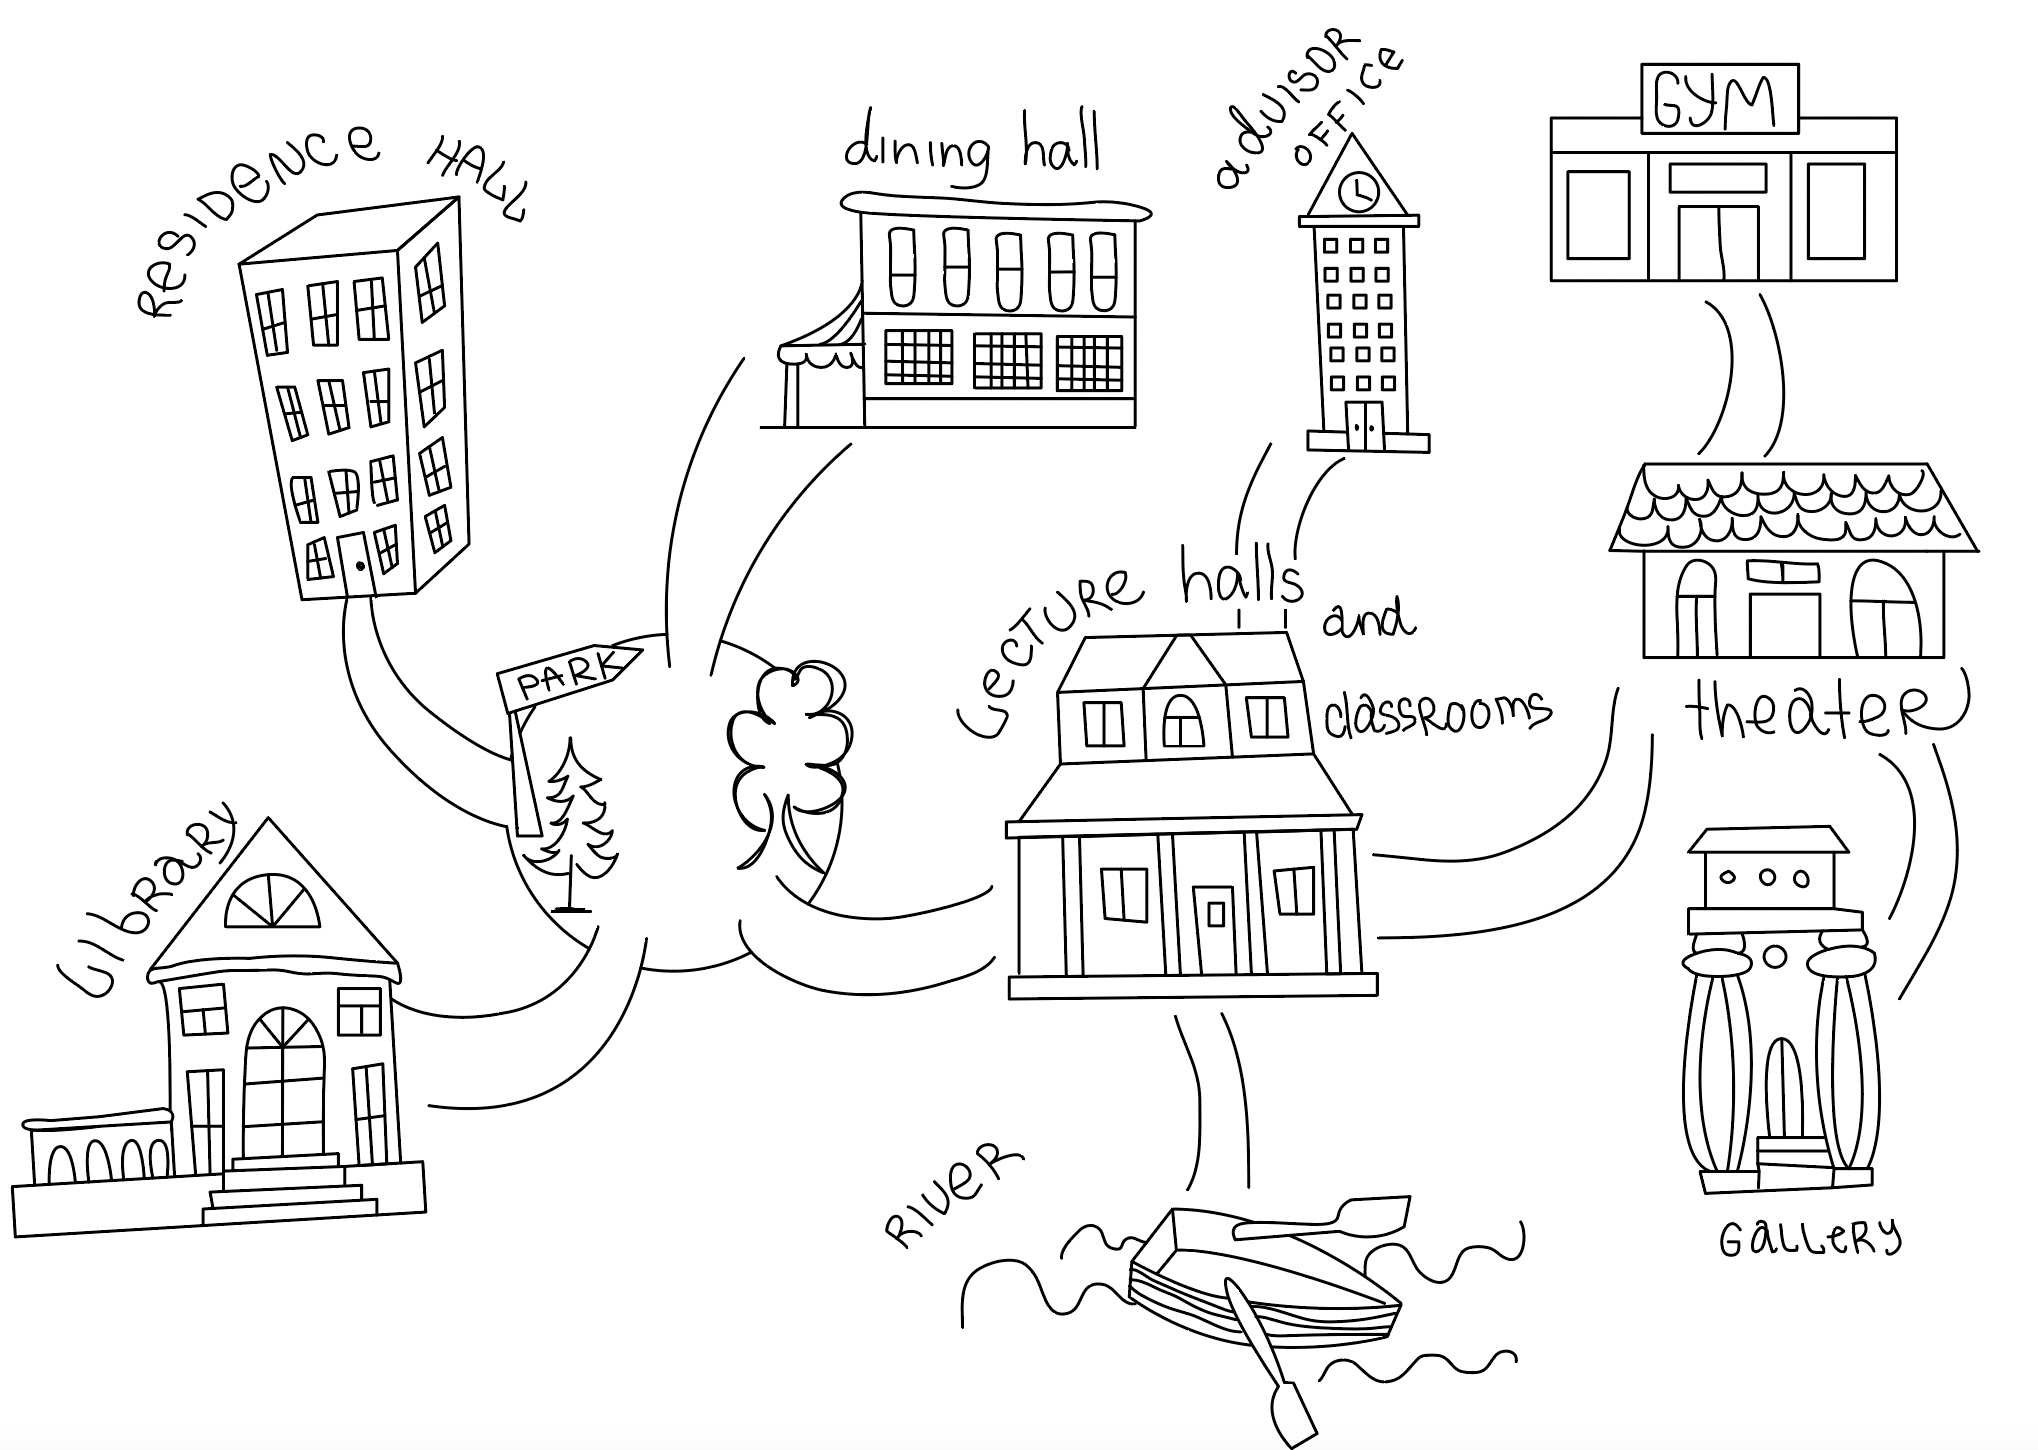
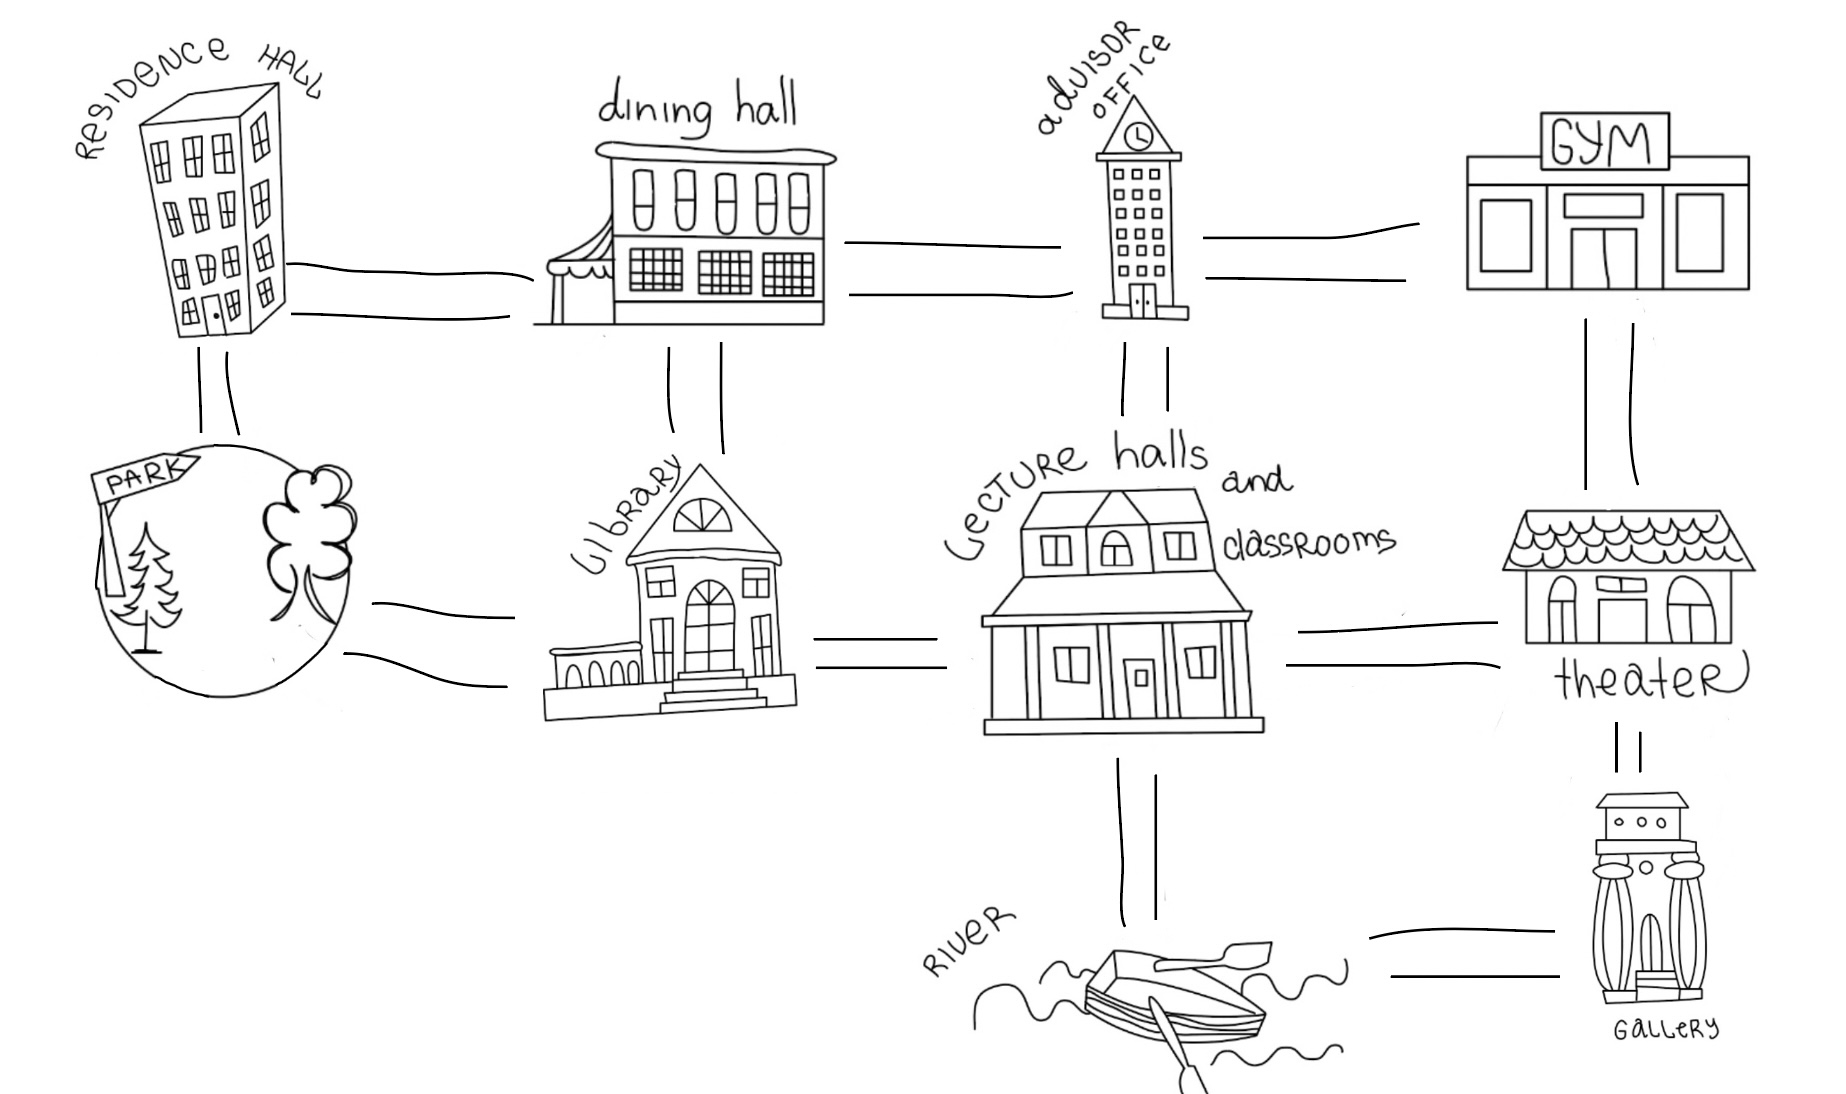
Determine where to go based on the user input

diff --git a/adventure.py b/adventure.py
@@ -20,6 +20,7 @@ def main():
     next = "Press ENTER to continue"
     details = "Press ENTER to learn more"
     command = "Enter a command: "
+    no_way = "Unfortunately, you are not allowed to go this way. Try another direction or ask for Help"
     
     residence2 = "Here you will find your bed, table, chair and your wardrobe. As well as a window with a view of the whole university"
     park2 = "Here you can see the most popular tree on the entire campus, where everyone has had a picnic at least once."
@@ -32,88 +33,257 @@ def main():
     gym2 = "There are two areas: a fitness room and a swimming pool. \nTry to make it your daily routine and you will be able to do your other things more productively."
     gallery2 = "Here you can see the progress of other players, \nand at the end of your journey post your own and share your experience"
     
-    number_of_stops = 0
-    print(title)
-    name = input(ask_for_name)
-    print(introduction)
+    residence_name = "Residence Hall"
+    park_name = "Park"
+    library_name = "Library"
+    dininghall_name = "Dining Hall"
+    classroom_name = "Lecture Halls and Classroom"
+    advisor_name = "Advisor Office"
+    river_name = "River"
+    theater_name = "Theater"
+    gym_name = "Gym"
+    gallery_name = "Gallery"
     
+    current_location = residence_name
+    number_of_stops = 0
+    
+    print(title)
+    print(introduction)
+    name = input(ask_for_name)
     print(ok + name + residence)
     input(details)
     print(residence2)
     input(next)
-    number_of_stops += 1
     
     while True:
         direction = input(command)
-        if direction.lower() == "north":
-            print("Your direction is North")
-        elif direction.lower() == "south":
-            print("Your direction is South")
-        elif direction.lower() == "east":
-            print("Your direction East")
-        elif direction.lower() == "west":
-            print("Your direction is West")
+        #residence_hall
+        if current_location == residence_name and direction.lower() == "north":
+            print(no_way)
+        elif current_location == residence_name and direction.lower() == "west":
+            print(no_way) 
+        elif current_location == residence_name and direction.lower() == "south":
+            current_location = park_name
+            number_of_stops += 1
+            print(park)
+            input(details)
+            print(park2)
+            input(next)
+        elif current_location == residence_name and direction.lower() == "east":
+            current_location = dininghall_name
+            number_of_stops += 1
+            print(dininghall)
+            input(details)
+            print(dininghall2)
+            input(next)
+        #park
+        elif current_location == park_name and direction.lower() == "north":
+            current_location = residence_name
+            number_of_stops += 1
+            print(ok + name + residence)
+            input(details)
+            print(residence2)
+            input(next)
+        elif current_location == park_name and direction.lower() == "west":
+            print(no_way) 
+        elif current_location == park_name and direction.lower() == "south":
+            print(no_way)
+        elif current_location == park_name and direction.lower() == "east":
+            current_location = library_name
+            number_of_stops += 1
+            print(library)
+            input(details)
+            print(library2)
+            input(next) 
+        #dining hall
+        elif current_location == dininghall_name and direction.lower() == "north":
+            print(no_way) 
+        elif current_location == dininghall_name and direction.lower() == "west":
+            current_location = residence_name
+            number_of_stops += 1
+            print(ok + name + residence)
+            input(details)
+            print(residence2)
+            input(next) 
+        elif current_location == dininghall_name and direction.lower() == "south":
+            current_location = library_name
+            number_of_stops += 1
+            print(library)
+            input(details)
+            print(library2)
+            input(next) 
+        elif current_location == dininghall_name and direction.lower() == "east":
+            current_location = advisor_name
+            number_of_stops += 1
+            print(advisor)
+            input(details)
+            print(advisor2)
+            input(next)
+        #library
+        elif current_location == library_name and direction.lower() == "north":
+            current_location = dininghall_name
+            number_of_stops += 1
+            print(dininghall)
+            input(details)
+            print(dininghall2)
+            input(next) 
+        elif current_location == library_name and direction.lower() == "west":
+            current_location = park_name
+            number_of_stops += 1
+            print(park)
+            input(details)
+            print(park2)
+            input(next)
+        elif current_location == library_name and direction.lower() == "south":
+            print(no_way)
+        elif current_location == library_name and direction.lower() == "east":
+            current_location = classroom_name
+            number_of_stops += 1
+            print(classroom)
+            input(details)
+            print(classroom2)
+            input(next)
+        #advisor office
+        elif current_location == advisor_name and direction.lower() == "north":
+            print(no_way)
+        elif current_location == advisor_name and direction.lower() == "west":
+            current_location = dininghall_name
+            number_of_stops += 1
+            print(dininghall)
+            input(details)
+            print(dininghall2)
+            input(next)
+        elif current_location == advisor_name and direction.lower() == "south":
+            current_location = classroom_name
+            number_of_stops += 1
+            print(classroom)
+            input(details)
+            print(classroom2)
+            input(next)
+        elif current_location == advisor_name and direction.lower() == "east":
+            current_location = gym_name
+            number_of_stops += 1
+            print(gym)
+            input(details)
+            print(gym2)
+            input(next)
+        #classroom
+        elif current_location == classroom_name and direction.lower() == "north":
+            current_location = advisor_name
+            number_of_stops += 1
+            print(advisor)
+            input(details)
+            print(advisor2)
+            input(next)
+        elif current_location == classroom_name and direction.lower() == "west":
+            current_location = library_name
+            number_of_stops += 1
+            print(library)
+            input(details)
+            print(library2)
+            input(next)
+        elif current_location == classroom_name and direction.lower() == "south":
+            current_location = river_name
+            number_of_stops += 1
+            print(river)
+            input(details)
+            print(river2)
+            input(next)
+        elif current_location == classroom_name and direction.lower() == "east":
+            current_location = theater_name
+            number_of_stops += 1
+            print(theater)
+            input(details)
+            print(theater2)
+            input(next)
+        #river
+        elif current_location == river_name and direction.lower() == "north":
+            current_location = classroom_name
+            number_of_stops += 1
+            print(classroom)
+            input(details)
+            print(classroom2)
+            input(next)
+        elif current_location == river_name and direction.lower() == "west":
+            print(no_way)
+        elif current_location == river_name and direction.lower() == "south":
+            print(no_way)
+        elif current_location == river_name and direction.lower() == "east":
+            current_location = gallery_name
+            number_of_stops += 1
+            print(gallery)
+            input(details)
+            print(gallery2)
+            input(next)
+        #gym
+        elif current_location == gym_name and direction.lower() == "north":
+            print(no_way)
+        elif current_location == gym_name and direction.lower() == "west":
+            current_location = advisor_name
+            number_of_stops += 1
+            print(advisor)
+            input(details)
+            print(advisor2)
+            input(next)
+        elif current_location == gym_name and direction.lower() == "south":
+            current_location = theater_name
+            number_of_stops += 1
+            print(theater)
+            input(details)
+            print(theater2)
+            input(next)
+        elif current_location == gym_name and direction.lower() == "east":
+            print(no_way)
+        #theater
+        elif current_location == theater_name and direction.lower() == "north":
+            current_location = gym_name
+            number_of_stops += 1
+            print(gym)
+            input(details)
+            print(gym2)
+            input(next)
+        elif current_location == theater_name and direction.lower() == "west":
+            current_location = classroom_name
+            number_of_stops += 1
+            print(classroom)
+            input(details)
+            print(classroom2)
+            input(next)
+        elif current_location == theater_name and direction.lower() == "south":
+            current_location = gallery_name
+            number_of_stops += 1
+            print(gallery)
+            input(details)
+            print(gallery2)
+            input(next)
+        elif current_location == theater_name and direction.lower() == "east":
+            print(no_way)
+        #gallery
+        elif current_location == gallery_name and direction.lower() == "north":
+            current_location = theater_name
+            number_of_stops += 1
+            print(theater)
+            input(details)
+            print(theater2)
+            input(next)
+        elif current_location == gallery_name and direction.lower() == "west":
+            current_location = river_name
+            number_of_stops += 1
+            print(river)
+            input(details)
+            print(river2)
+            input(next)
+        elif current_location == gallery_name and direction.lower() == "south":
+            print(no_way)
+        elif current_location == gallery_name and direction.lower() == "east":
+            print(no_way)
         elif direction.lower() == "help":
             print("Valid commands is North, South, East, West, Help and Quit")
         elif direction.lower() == "quit":
             break
         else:
             print('Your command is not found, try again or enter "Help"')
-        
-    print(park)
-    input(details)
-    print(park2)
-    input(next)
-    number_of_stops += 1
-    
-    print(library)
-    input(details)
-    print(library2)
-    input(next)
-    number_of_stops += 1
-   
-    print(dininghall)
-    input(details)
-    print(dininghall2)
-    input(next)
-    number_of_stops += 1
-    
-    print(classroom)
-    input(details)
-    print(classroom2)
-    input(next)
-    number_of_stops += 1
-    
-    print(advisor)
-    input(details)
-    print(advisor2)
-    input(next)
-    number_of_stops += 1
-    
-    print(river)
-    input(details)
-    print(river2)
-    input(next)
-    number_of_stops += 1
-    
-    print(theater)
-    input(details)
-    print(theater2)
-    input(next)
-    number_of_stops += 1
-    
-    print(gym)
-    input(details)
-    print(gym2)
-    input(next)
-    number_of_stops += 1
-    
-    print(gallery)
-    input(details)
-    print(gallery2)
-    input(next)
-    number_of_stops += 1
-    
+
     print(stops, number_of_stops)
     print(end + name + question)
     
